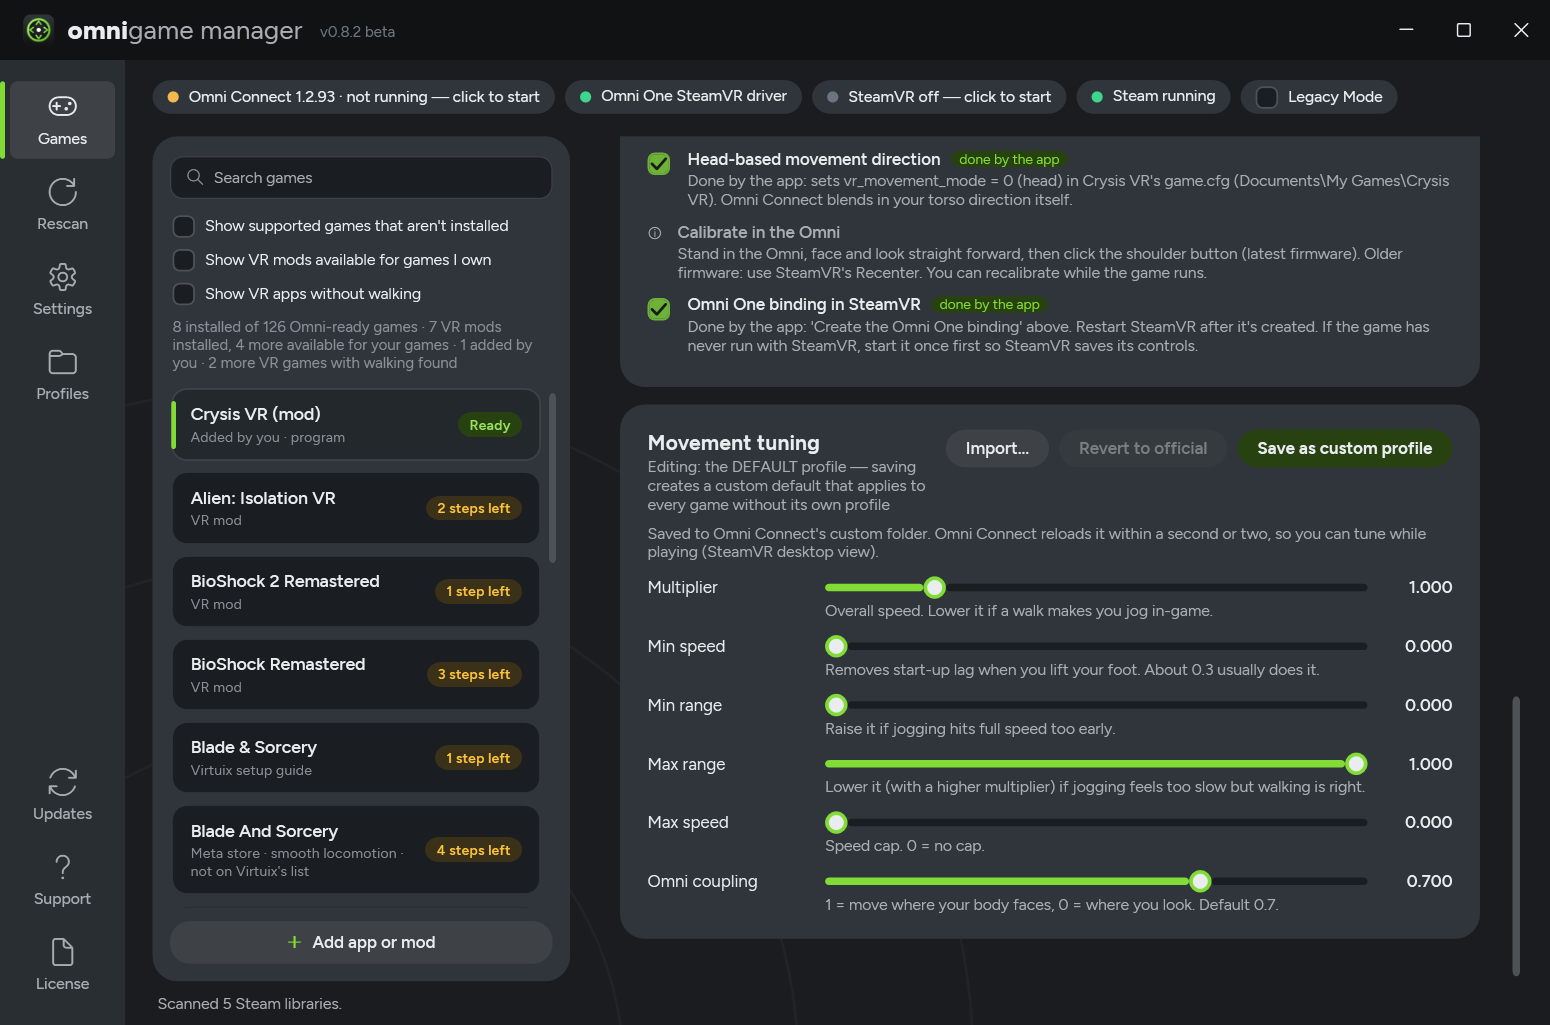
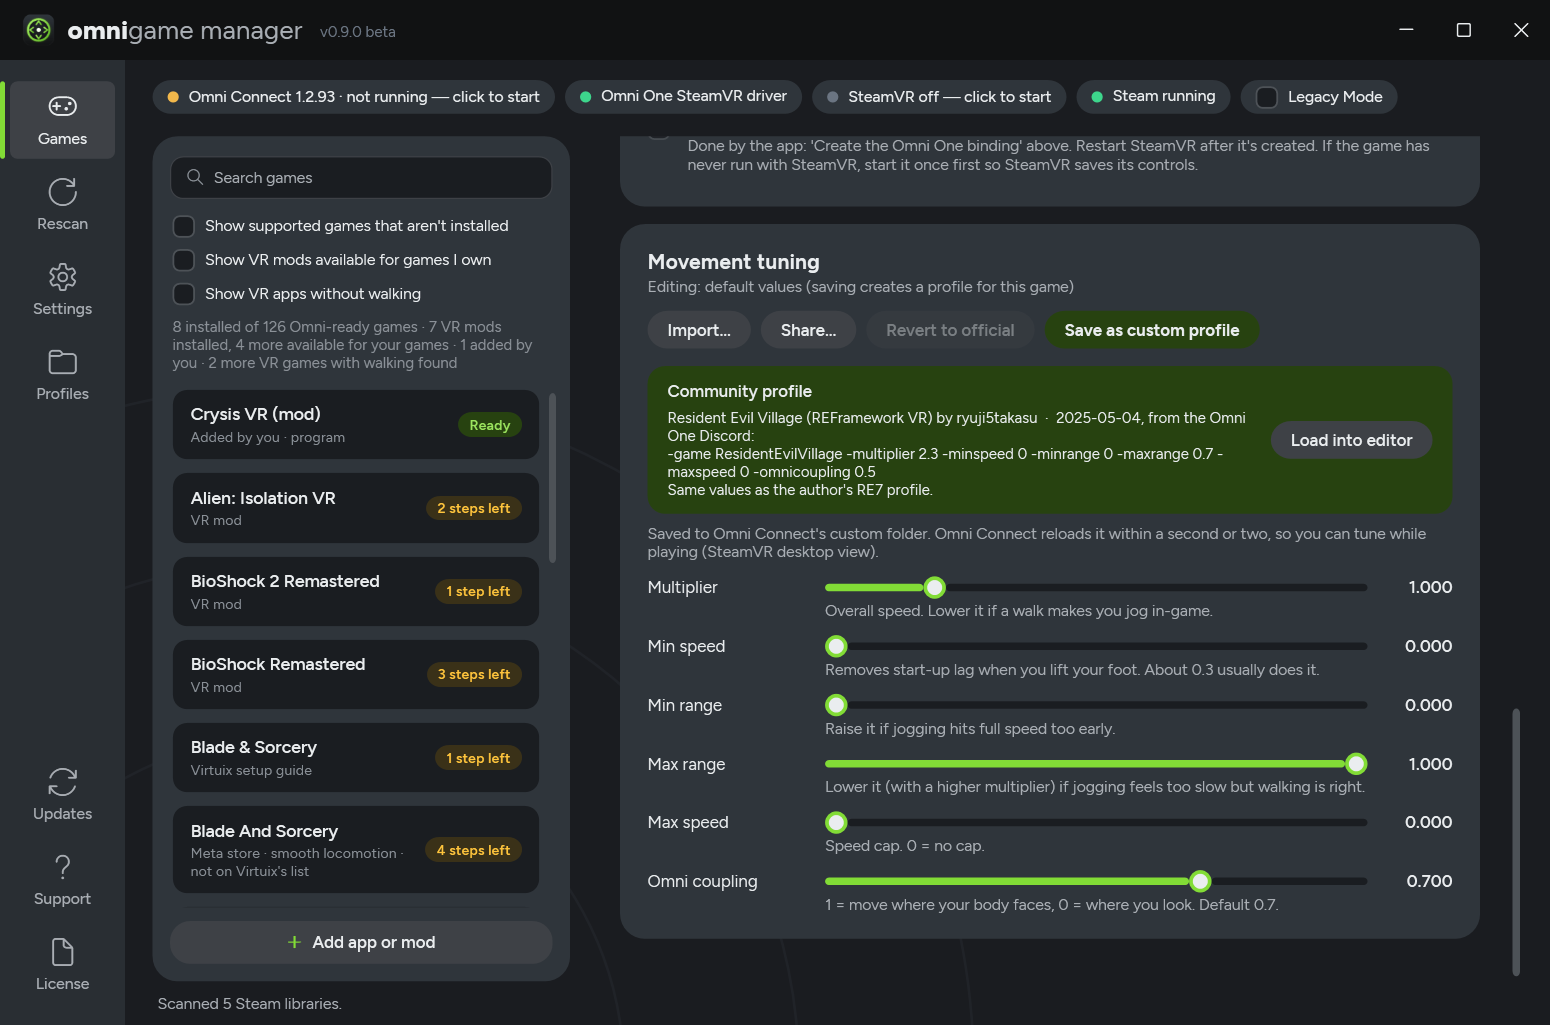
README: sharing community profiles
Claude-Session: https://claude.ai/code/session_01HUasNvDByaR7SKMmNgCgRh

Changed region(s): [[0.4026, 0.1249, 0.96, 0.4995], [0.0929, 0.4059, 0.1239, 0.4371]]

diff --git a/README.md b/README.md
@@ -34,7 +34,7 @@ Windows SmartScreen may warn that it's an unrecognized app, because it isn't cod
 - **Undo all:** puts a game back exactly the way it was before the app changed it. **Undo everything** (in Settings) does it for every game, and uninstalling the app offers the same.
 - **Backups with Restore:** every file is backed up before the app changes it, and each backup can be restored from Settings.
 - **Checklist** of what's left for you, like in-game menu settings, which the app ticks off itself where it can.
-- **Tunes movement** in Omni Connect's game profile (live while you play), with community profiles from the Omni One Discord.
+- **Tunes movement** in Omni Connect's game profile (live while you play), with **community profiles** that update online. Use **Share…** in the app to add yours to the [shared list](community/profiles.json); it goes through a quick check first.
 - **Launches** the game the right way, starting SteamVR and Omni Connect first and adding any Steam launch options it still needs.
 - **Warns you** about things that stop the Omni from working, such as the wrong OpenXR runtime or Legacy Mode.
 - **Looks at home next to Omni Connect**, with each game's artwork on its page, and updates itself from this page (tick "Get beta builds too" in Settings for pre-releases).
